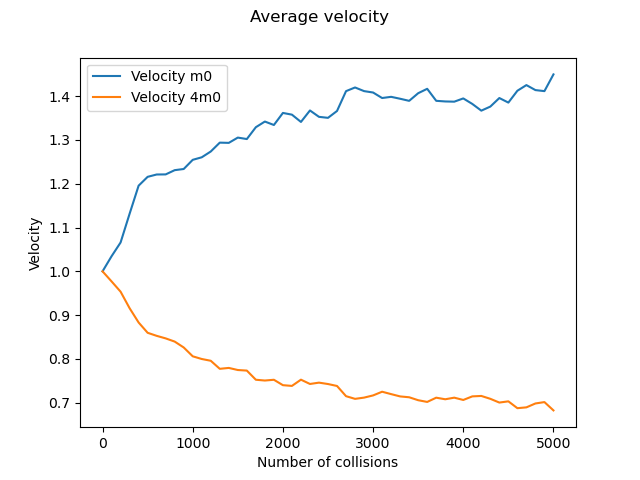
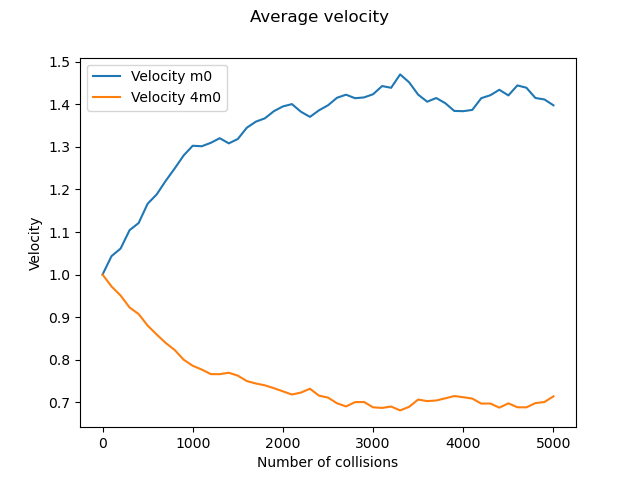
minor changes

diff --git a/problems.py b/problems.py
@@ -18,8 +18,7 @@ def HistogramMB(velocities,m,filename): #filename is a string containing the nam
     v=np.linspace(0,4)
     averageVelocity=np.sum(velocities)/len(velocities)
     #kT=(averageVelocity*averageVelocity*m/2) #Boltzmann constant times Temperature
-    v0=1
-    kT=v0*v0*m/2
+    kT=V0*V0*m/2
     mb=(m*v/kT)*np.exp(-(m*(v*v)/(2*kT))) #Maxwell-Boltzmann distribution
 
     #plotting
@@ -106,8 +105,8 @@ def problem2(N2,m0,n):
 def problem3(N3,m0,n,interval,start):
 
     #initialize mass array
-    masses3=np.full(N2,m0)
-    x=int(N2/2)
+    masses3=np.full(N3,m0)
+    x=int(N3/2)
     for i in range(x):
         masses3[x+i]=4*m0
 
@@ -159,7 +158,7 @@ def problem3(N3,m0,n,interval,start):
 
 
 
-problem1(2000,1,20000,5000,10000)
-#problem2(500,1,5000)
+#problem1(2000,1,20000,5000,10000)
+problem2(500,1,5000)
 
-#problem3(500,1,5000,100,0)
+problem3(500,1,5000,100,0)
